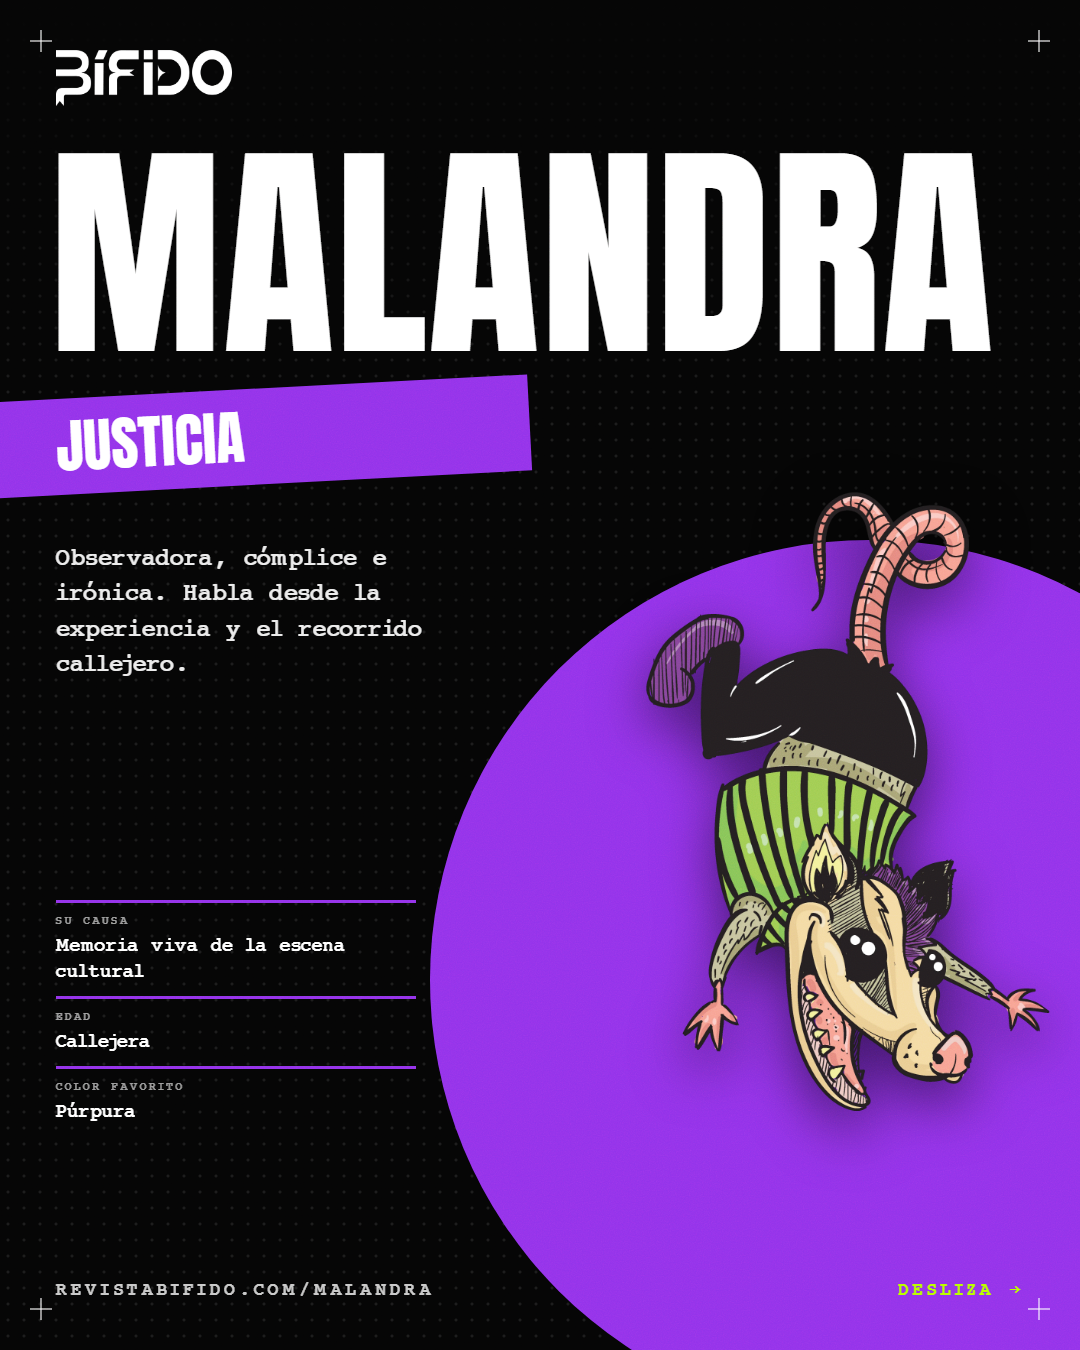
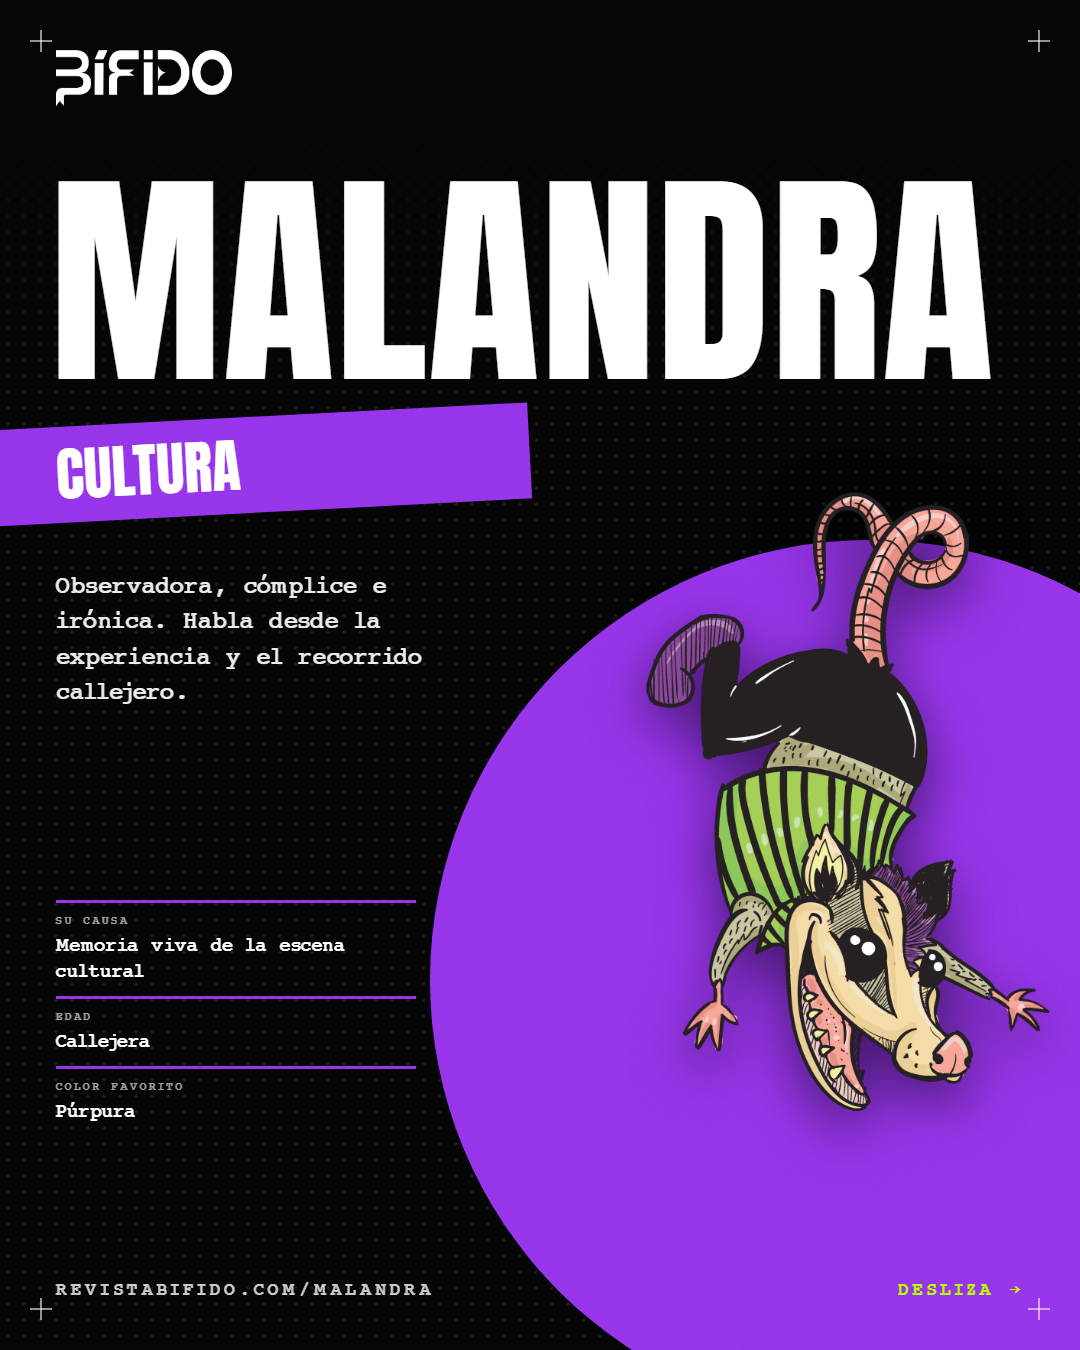
feat: add Google Tag Manager integration and marketing assets

Changed region(s): [[0.0, 0.0933, 0.9167, 0.5289], [0.5194, 0.1867, 0.55, 0.2178]]

diff --git a/marketing/fuente-extras/gen2.js b/marketing/fuente-extras/gen2.js
@@ -25,11 +25,11 @@ const M = (t, x, y, size, o = {}) => `<div class="abs mono" style="left:${x}px;t
 
 // --- datos reales (API de Payload / sitio) -----------------------------------
 const CH = [
-  { id: 'malandra', name: 'Malandra', topic: 'Justicia', col: '#9333ea', desc: 'Observadora, cómplice e irónica. Habla desde la experiencia y el recorrido callejero.', causa: 'Memoria viva de la escena cultural', age: 'Callejera', color: 'Púrpura' },
+  { id: 'malandra', name: 'Malandra', topic: 'Cultura', col: '#9333ea', desc: 'Observadora, cómplice e irónica. Habla desde la experiencia y el recorrido callejero.', causa: 'Memoria viva de la escena cultural', age: 'Callejera', color: 'Púrpura' },
   { id: 'incendia', name: 'Incendia', topic: 'Género', col: '#f97316', desc: 'Directa, combativa y afectiva. Convoca, denuncia y moviliza por la justicia social.', causa: 'Lucha activa por la equidad', age: 'Joven rebelde', color: 'Naranja' },
-  { id: 'mordaz', name: 'Mordáz', topic: 'Cultura', col: '#ef4444', desc: 'Sarcástico, lúcido y provocador. Maestro de la ironía y el humor negro.', causa: 'La provocación como dialéctica', age: 'Desconocida', color: 'Rojo' },
+  { id: 'mordaz', name: 'Mordáz', topic: 'Opinión', col: '#ef4444', desc: 'Sarcástico, lúcido y provocador. Maestro de la ironía y el humor negro.', causa: 'La provocación como dialéctica', age: 'Desconocida', color: 'Rojo' },
   { id: 'punkibri', name: 'Punkibrí', topic: 'Ambiente', col: '#22c55e', desc: 'Rebelde, sensible y poético. Defiende el territorio y la soberanía alimentaria.', causa: 'Relación espiritual y política con la tierra', age: 'Agitador de alas', color: 'Verde' },
-  { id: 'anika', name: 'Ánika', topic: 'Cuidado', col: '#00a89e', desc: 'Clara, tranquila y firme. Genera confianza y calma en temas de salud comunitaria.', causa: 'El cuidado como acto político', age: 'Ancestral', color: 'Turquesa' },
+  { id: 'anika', name: 'Ánika', topic: 'Reducción de riesgos y daños', sub: 'por consumo de sustancias', col: '#00a89e', desc: 'Clara, tranquila y firme. Genera confianza y calma en temas de salud comunitaria.', causa: 'El cuidado como acto político', age: 'Ancestral', color: 'Turquesa' },
 ];
 const TEAM = [
   ['alexandra', 'Alexandra Amado', 'Administradora y gestora de proyectos con enfoque interseccional', 'El futuro es hoy.'],
@@ -113,9 +113,9 @@ ${HUD()}`));
 <div class="abs" style="left:430px;top:540px;width:880px;height:880px;border-radius:50%;background:${c.col};z-index:5"></div>
 <div class="abs" style="left:0;top:0;width:1080px;height:1350px;z-index:6;background:linear-gradient(to bottom,#050505 0%,rgba(5,5,5,0) 30%)"></div>
 <img class="abs" src="assets/${c.id}.webp" style="right:-90px;bottom:110px;height:860px;z-index:20;filter:drop-shadow(0 20px 28px rgba(0,0,0,.55))">
-${D(c.name, 50, 150, nameSize)}
-<div class="tape" style="left:-30px;top:${150 + nameSize * .95 + 20}px;width:560px;height:96px;transform:rotate(-3deg);z-index:46;display:flex;align-items:center;padding-left:86px;background:${c.col}"><div class="d" style="font-size:58px;color:#fff;line-height:1">${c.topic}</div></div>
-<div class="abs p" style="left:56px;top:${150 + nameSize * .95 + 170}px;width:380px;z-index:45;font-size:25px;line-height:1.42;color:rgba(255,255,255,.92)">${c.desc}</div>
+${D(c.name, 50, 178, nameSize)}
+<div class="tape" style="left:-30px;top:${178 + nameSize * .95 + 20}px;width:${c.topic.length > 12 ? 600 : 560}px;height:${c.topic.length > 12 ? 130 : 96}px;transform:rotate(-3deg);z-index:46;display:flex;align-items:center;padding-left:86px;background:${c.col}"><div class="d" style="font-size:${c.topic.length > 12 ? 44 : 58}px;color:#fff;line-height:1.05;white-space:normal;width:480px">${c.topic}</div></div>
+<div class="abs p" style="left:56px;top:${178 + nameSize * .95 + (c.sub ? 190 : 170)}px;width:380px;z-index:45;font-size:25px;line-height:1.42;color:rgba(255,255,255,.92)">${c.sub ? `<span style="color:#5eead4">${c.sub[0].toUpperCase() + c.sub.slice(1)}.</span> ` : ''}${c.desc}</div>
 <div class="abs" style="left:56px;top:900px;width:360px;z-index:45">
   ${[['Su causa', c.causa], ['Edad', c.age], ['Color favorito', c.color]].map(([k, v]) => `<div style="border-top:3px solid ${c.col};padding:10px 0 12px"><div class="mono" style="font-size:12px;color:rgba(255,255,255,.6)">${k}</div><div class="p" style="font-size:20px;line-height:1.3;margin-top:5px;color:#fff">${v}</div></div>`).join('')}
 </div>

diff --git a/components/GoogleTagManager.tsx b/components/GoogleTagManager.tsx
@@ -1,0 +1,34 @@
+import Script from 'next/script';
+
+/**
+ * Google Tag Manager (contenedor que gestiona Google Analytics 4).
+ * - El ID se toma de NEXT_PUBLIC_GTM_ID (con el contenedor de Revista Bífido como valor por defecto).
+ * - Solo se carga en producción, para no contaminar las estadísticas con visitas de desarrollo.
+ * - Vive en el layout del sitio público, así que el panel /admin de Payload no se mide.
+ */
+const GTM_ID = process.env.NEXT_PUBLIC_GTM_ID ?? 'GTM-M664QSXP';
+const ENABLED = process.env.NODE_ENV === 'production' && Boolean(GTM_ID);
+
+export function GtmScript() {
+  if (!ENABLED) return null;
+  return (
+    <Script id="gtm-init" strategy="afterInteractive">
+      {`(function(w,d,s,l,i){w[l]=w[l]||[];w[l].push({'gtm.start':new Date().getTime(),event:'gtm.js'});var f=d.getElementsByTagName(s)[0],j=d.createElement(s),dl=l!='dataLayer'?'&l='+l:'';j.async=true;j.src='https://www.googletagmanager.com/gtm.js?id='+i+dl;f.parentNode.insertBefore(j,f);})(window,document,'script','dataLayer','${GTM_ID}');`}
+    </Script>
+  );
+}
+
+export function GtmNoScript() {
+  if (!ENABLED) return null;
+  return (
+    <noscript>
+      <iframe
+        src={`https://www.googletagmanager.com/ns.html?id=${GTM_ID}`}
+        height="0"
+        width="0"
+        style={{ display: 'none', visibility: 'hidden' }}
+        title="Google Tag Manager"
+      />
+    </noscript>
+  );
+}

diff --git a/marketing/instagram-lanzamiento/fuente/build.js b/marketing/instagram-lanzamiento/fuente/build.js
@@ -78,11 +78,11 @@ ${HUD(2)}`);
 
 // 03 — LA MANADA ---------------------------------------------------------------
 const chars = [
-  ['malandra', 'Malandra', 'Justicia', '#9333ea', 0],
+  ['malandra', 'Malandra', 'Cultura', '#9333ea', 0],
   ['incendia', 'Incendia', 'Género', '#f97316', 1],
-  ['mordaz', 'Mordáz', 'Cultura', '#ef4444', 2],
+  ['mordaz', 'Mordáz', 'Opinión', '#ef4444', 2],
   ['punkibri', 'Punkibrí', 'Ambiente', '#22c55e', 3],
-  ['anika', 'Ánika', 'Cuidado', '#00a89e', 4],
+  ['anika', 'Ánika', 'Reducción de riesgos y daños por consumo de sustancias', '#00a89e', 4],
 ];
 const CX = [150, 345, 540, 735, 930];
 const heights = [470, 490, 530, 490, 470];
@@ -99,7 +99,7 @@ ${chars.map(([id, name, topic, col, i]) => {
   return `<div class="abs" style="left:${Math.round(cx - 93)}px;top:1176px;width:186px;z-index:45;text-align:center">
     <div style="height:6px;background:${col};margin-bottom:11px"></div>
     <div class="d" style="font-size:30px;line-height:1">${name}</div>
-    <div class="mono" style="font-size:13px;letter-spacing:.16em;color:rgba(255,255,255,.7);margin-top:5px">${topic}</div></div>`;
+    <div class="mono" style="font-size:${topic.length > 14 ? 11 : 13}px;letter-spacing:${topic.length > 14 ? .04 : .16}em;line-height:1.35;color:rgba(255,255,255,.7);margin-top:5px">${topic}</div></div>`;
 }).join('')}
 ${HUD(3, { hideFoot: true })}`);
 

diff --git a/app/(website)/layout.tsx b/app/(website)/layout.tsx
@@ -7,6 +7,7 @@ import Header from '@/components/Header';
 import Footer from '@/components/Footer';
 import ScrollToTop from '@/components/ScrollToTop';
 import JsonLd from '@/components/JsonLd';
+import { GtmScript, GtmNoScript } from '@/components/GoogleTagManager';
 import { SITE_URL, SITE_NAME, SITE_TAGLINE, SITE_DESCRIPTION, SOCIAL_PROFILES, DEFAULT_OG_IMAGE } from '@/lib/seo';
 // import BackToHome from '@/components/BackToHome';
 
@@ -81,6 +82,8 @@ export default function RootLayout({
   return (
     <html lang="es" suppressHydrationWarning className={`${bebas.variable} ${jackInput.variable} ${anton.variable} ${outfit.variable}`}>
       <body suppressHydrationWarning className="bg-black text-white font-sans antialiased flex flex-col min-h-[100dvh]">
+        <GtmNoScript />
+        <GtmScript />
         <JsonLd data={{
           '@context': 'https://schema.org',
           '@graph': [
